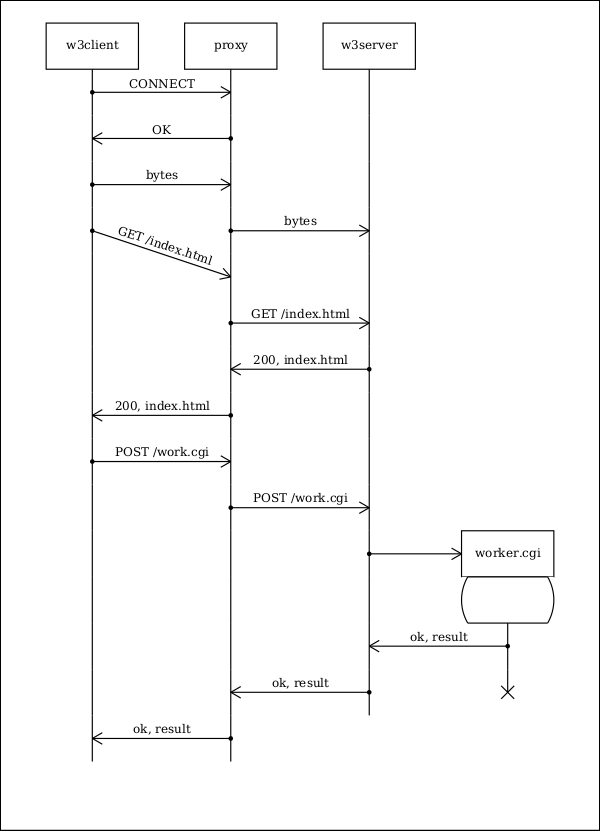
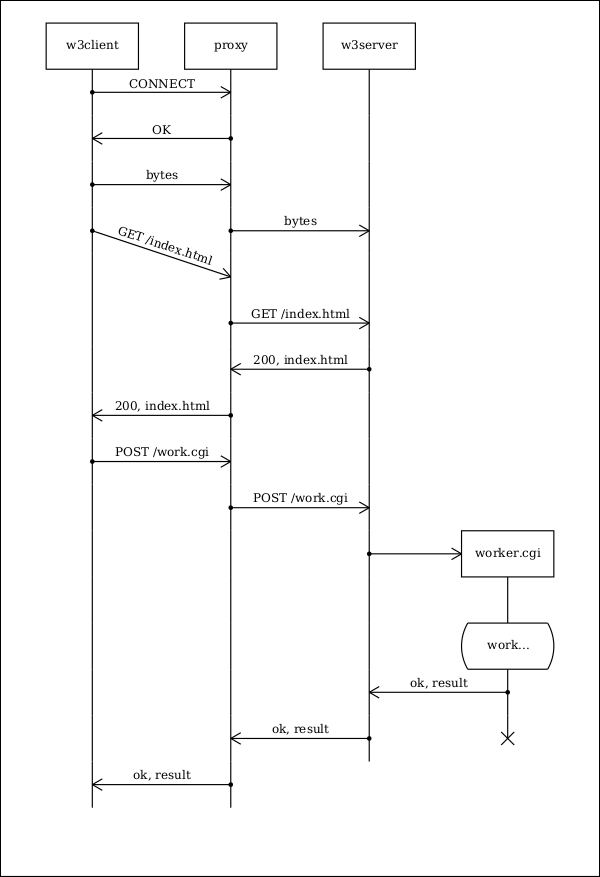
prevent box from touching above box

diff --git a/meseq.py b/meseq.py
@@ -587,7 +587,10 @@ def tokenParseScenarioLine(line):
         die('Invalid message line: %s' % line)
 
     node.actorSrc = src
-    node.actorDest = dest
+    if node.type != NT_BOX:
+        node.actorDest = dest
+    else:
+        node.options['label'] = dest
     # parse the options
     options = tokenParseKeyEqualValue(line[3:])
     node.options.update(options)
@@ -689,7 +692,7 @@ class SequenceGraph:
                     row[i] = Node(NT_LIFELINE)
 
 
-    def place(self, node, actor = None):
+    def place(self, node, preventTouch = False):
         currentRow = self.getCurrentRow()
         index = self.getIndex(node.actorSrc)
         if index is None:
@@ -704,6 +707,16 @@ class SequenceGraph:
             self.updateLifeline()
             self.rows.append(self.getNewRow())
             currentRow = self.getCurrentRow()
+
+        if preventTouch:
+            # check if the row just above has a NT_BOX or NT_ACTOR
+            if len(self.rows) > 1 and len(self.rows[-2]) > index:
+                nodeAbove =  self.rows[-2][index]
+                if nodeAbove is not None and nodeAbove.type in [ NT_BOX, NT_ACTOR ]:
+                    # add a row
+                    self.updateLifeline()
+                    self.rows.append(self.getNewRow())
+                    currentRow = self.getCurrentRow()
 
         currentRow[index] = node
         node.x = index
@@ -778,7 +791,9 @@ def computeGraph(initialActors, data):
             graph.place(newActor)
             
         elif nod.type == NT_BOX:
-            graph.place(nod)
+            # insert a row if previous node is a NT_BOX or NT_ACTOR
+            # so that they do not touch each other
+            graph.place(nod, preventTouch=True)
 
         elif nod.type == NT_TERMINATE:
             graph.place(nod)
